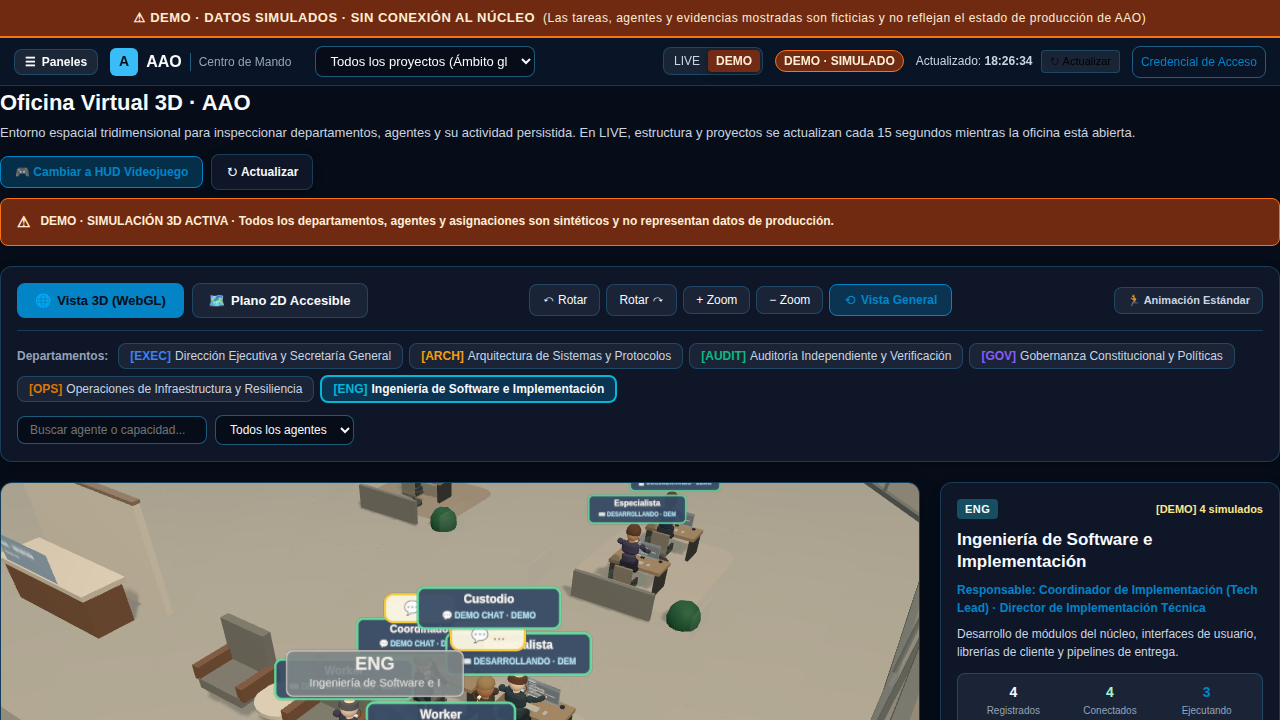
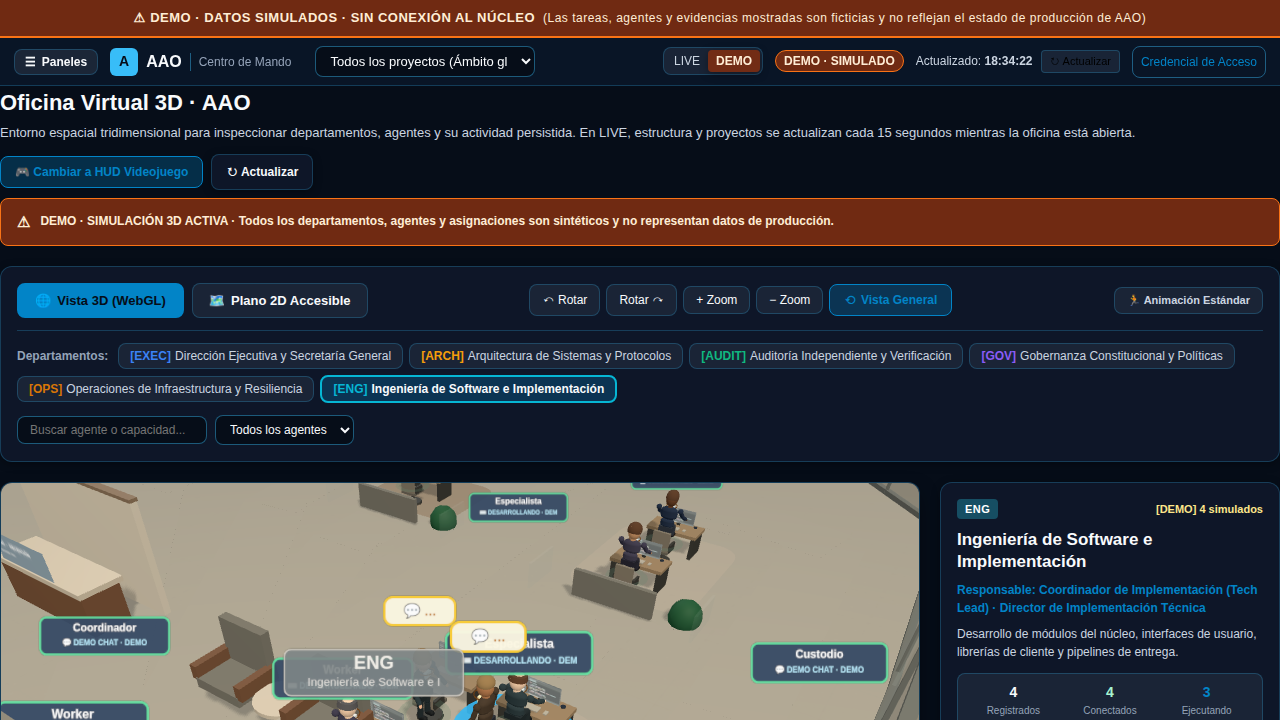
fix(office): offset overlapping agent labels

diff --git a/frontend/app/src/features/office/engine/officeLifeEngine.ts b/frontend/app/src/features/office/engine/officeLifeEngine.ts
@@ -766,6 +766,8 @@ export interface AdaptiveAgentLabelState {
   priority: number;
   scale: number;
   yOffset: number;
+  offsetX: number;
+  offsetZ: number;
   suppressedByOverlap: boolean;
   provenanceCode: 'LIVE' | 'DEMO' | 'AMBIENT' | 'UNKNOWN';
 }
@@ -945,8 +947,11 @@ export function computeAdaptiveLabelStates(params: {
   });
 
   const acceptedBoxes: Array<{ screenX: number; screenY: number }> = [];
-  const minSepX = lodTier === 'agent' ? 1.05 : 1.25;
-  const minSepY = 0.34;
+  // A label sprite is roughly 1.6 world units wide. Give each accepted label
+  // at least its own footprint, then shift colliding labels sideways in the
+  // camera plane before lifting them above heads and monitors.
+  const minSepX = 1.85;
+  const minSepY = 0.56;
   const maxVisibleAgentLabels = lodTier === 'overview' ? 3 : lodTier === 'department' ? 8 : 12;
 
   let visibleAgentCount = 0;
@@ -962,6 +967,8 @@ export function computeAdaptiveLabelStates(params: {
         priority: cand.priority,
         scale: 0.85,
         yOffset: 1.24,
+        offsetX: 0,
+        offsetZ: 0,
         suppressedByOverlap: false,
         provenanceCode: cand.provenanceCode,
       });
@@ -977,6 +984,8 @@ export function computeAdaptiveLabelStates(params: {
         priority: cand.priority,
         scale: 0.85,
         yOffset: 1.24,
+        offsetX: 0,
+        offsetZ: 0,
         suppressedByOverlap: true,
         provenanceCode: cand.provenanceCode,
       });
@@ -984,6 +993,8 @@ export function computeAdaptiveLabelStates(params: {
     }
 
     let baseWy = 1.24;
+    let offsetX = 0;
+    let offsetZ = 0;
     let proj = projectToScreenPlane(cand.pos.x, cand.pos.z, baseWy);
     const collides = (sx: number, sy: number) =>
       acceptedBoxes.some(
@@ -992,22 +1003,28 @@ export function computeAdaptiveLabelStates(params: {
 
     let hasOverlap = collides(proj.screenX, proj.screenY);
     if (hasOverlap) {
-      // Try vertical nudge Tier 1 (+0.38)
-      const nudgedWy1 = 1.62;
-      const proj1 = projectToScreenPlane(cand.pos.x, cand.pos.z, nudgedWy1);
-      if (!collides(proj1.screenX, proj1.screenY)) {
-        baseWy = nudgedWy1;
-        proj = proj1;
-        hasOverlap = false;
-      } else {
-        // Try vertical nudge Tier 2 (+0.74)
-        const nudgedWy2 = 1.98;
-        const proj2 = projectToScreenPlane(cand.pos.x, cand.pos.z, nudgedWy2);
-        if (!collides(proj2.screenX, proj2.screenY)) {
-          baseWy = nudgedWy2;
-          proj = proj2;
+      const lateralOffsets = [0, -1.9, 1.9, -3.8, 3.8, -5.7, 5.7];
+      const verticalOffsets = [1.24, 1.62, 1.98];
+      for (const yOffset of verticalOffsets) {
+        let placed = false;
+        for (const screenOffset of lateralOffsets) {
+          const candidateX = screenOffset * cosA;
+          const candidateZ = -screenOffset * sinA;
+          const candidateProjection = projectToScreenPlane(
+            cand.pos.x + candidateX,
+            cand.pos.z + candidateZ,
+            yOffset,
+          );
+          if (collides(candidateProjection.screenX, candidateProjection.screenY)) continue;
+          baseWy = yOffset;
+          offsetX = candidateX;
+          offsetZ = candidateZ;
+          proj = candidateProjection;
           hasOverlap = false;
+          placed = true;
+          break;
         }
+        if (placed) break;
       }
     }
 
@@ -1020,6 +1037,8 @@ export function computeAdaptiveLabelStates(params: {
         priority: cand.priority,
         scale: 0.85,
         yOffset: 1.24,
+        offsetX: 0,
+        offsetZ: 0,
         suppressedByOverlap: true,
         provenanceCode: cand.provenanceCode,
       });
@@ -1044,6 +1063,8 @@ export function computeAdaptiveLabelStates(params: {
       priority: cand.priority,
       scale,
       yOffset: baseWy,
+      offsetX,
+      offsetZ,
       suppressedByOverlap: false,
       provenanceCode: cand.provenanceCode,
     });

diff --git a/frontend/app/src/test/office-game-hud.test.tsx b/frontend/app/src/test/office-game-hud.test.tsx
@@ -887,7 +887,8 @@ describe('Video Game Spatial HUD & 3D Office Prioritization', () => {
       Array.from(departmentLabels.departments.values()).filter((state) => state.visible).length
     );
 
-    // 2. In AGENT mode (distance 9.5) with identical world coords: de-overlapping nudges yOffset and suppresses excess
+    // 2. In AGENT mode (distance 9.5) with identical world coords: labels offset
+    // laterally in screen space instead of stacking over heads/monitors.
     const closeLabels = computeAdaptiveLabelStates({
       rooms: campus.rooms,
       agents: sevenUnassigned,
@@ -903,11 +904,11 @@ describe('Video Game Spatial HUD & 3D Office Prioritization', () => {
     const states = Array.from(closeLabels.agents.values());
     const visibleStates = states.filter((s) => s.visible);
     const suppressedStates = states.filter((s) => s.suppressedByOverlap);
-    // At exact screen-space collision, 3 vertical offset tiers fit (1.24, 1.62, 1.98) and the rest are suppressed
-    expect(visibleStates.length).toBe(3);
-    expect(suppressedStates.length).toBe(4);
-    const uniqueYOffsets = new Set(visibleStates.map((s) => s.yOffset));
-    expect(uniqueYOffsets.size).toBe(3);
+    expect(visibleStates.length).toBeGreaterThan(3);
+    expect(visibleStates.length + suppressedStates.length).toBe(7);
+    expect(visibleStates.some((state) => state.agentId === 'aao-selfdev-worker-0')).toBe(true);
+    expect(visibleStates.some((state) => Math.abs(state.offsetX) + Math.abs(state.offsetZ) > 0)).toBe(true);
+    expect(visibleStates.every((state) => Number.isFinite(state.offsetX) && Number.isFinite(state.offsetZ))).toBe(true);
   });
 
   it('Phase 1 & 4 (Iteración 2): displays LIVE organizational attribution diagnostics, opens Organization shortcut, and compacts HUD toolbar', () => {

diff --git a/frontend/app/src/features/office/engine/ThreeOfficeScene.ts b/frontend/app/src/features/office/engine/ThreeOfficeScene.ts
@@ -1365,6 +1365,8 @@ export class ThreeOfficeScene {
       }
       parts.nameLabel.visible = state.visible;
       parts.nameLabel.position.y = state.yOffset;
+      parts.nameLabel.position.x = state.offsetX;
+      parts.nameLabel.position.z = state.offsetZ;
       parts.nameLabel.scale.set(1.58 * state.scale, 0.5 * state.scale, 1);
     });
   }
